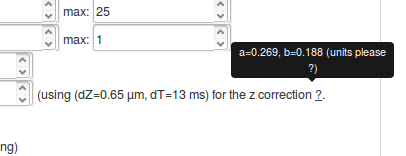
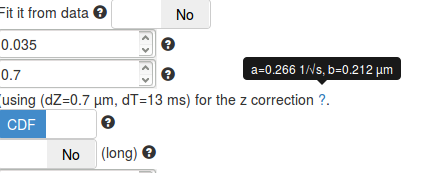
Updated documentation to versio 0.7
Fixes #128

Updated screenshots & co

Changed region(s): [[0.0, 0.0, 0.9754, 0.8205], [0.0, 0.8205, 0.3547, 1.0], [0.532, 0.0, 0.5616, 0.0513]]

diff --git a/SPTGUI/templates/SPTGUI/0.7/tutorial.html b/SPTGUI/templates/SPTGUI/0.7/tutorial.html
@@ -5,7 +5,7 @@
 <div class="bs-callout bs-callout-warning">
   <h4>Step 1: start an analysis with demonstration files</h4>
   <p> To access the demonstration files, go to the <a href="{% url 'SPTGUI:index' %}">Spot-On homepage</a> and scroll to the "Get Started section" (or alternatively click the <a href="{% url 'SPTGUI:index' %}#start" class="btn btn-default btn-sm">Start spotting!</a> button on the top menu. First fill in the "I'm not a robot" CAPTCHA. Then you have the option to either upload your own tracking files and start your analysis or start with demo files. We choose this later option for the purpose of this tutorial.</p>
-  <img src="{% static 'SPTGUI/img/tutorial/0.6/tuto1.png' %}"
+  <img src="{% static 'SPTGUI/img/tutorial/0.7/tuto1.png' %}"
      class="img-responsive center-block"
      style="max-width: 50%;"
      alt="Screenshot of the CAPTCHA region.">
@@ -46,24 +46,25 @@
 
 <p> The "Uploaded datasets" region (<span class="red">&#x2462;</span> in the screenshot below), that displays the uploaded datasets, together with their status (<code>uploading</code>, <code>queued</code>, <code>error</code>). The meaning of the upload codes is detailed in the <a href="#import-codes">Import codes</a> section below. When clicking on the "eye" symbol (<span class="glyphicon glyphicon-eye-open"></span>) next to an uploaded dataset will display some statistics in the area  <span class="red">&#x2463;</span>. The meaning and details of the computation of each statistic is detailed in section <a href="#dataset-statistics">Dataset statistics</a> below. Finally, area <span class="red">&#x2464;</span> displays similar statistics as area <span class="red">&#x2463;</span>, but for all the datasets pooled together.</p>
 
-<img src="{% static 'SPTGUI/img/tutorial/0.6/tuto2.png' %}"
+<img src="{% static 'SPTGUI/img/tutorial/0.7/tuto2.png' %}"
      class="img-responsive center-block"
      style="max-width: 70%;"
      alt="Screenshot of 'Data' tab.">
 
 <h3>Import</h3>
-<p>To proceed with the tutorial, several files have been loaded, they are named:</p>
+<p>To proceed with the tutorial, several files have been loaded, they are named. They might get imported in a different order:</p>
+
 <ol>
-  <li>20170223_mESC_C3_Halo-Sox2_25nM_PA-JF646_1ms-AOTF100-1100mW-633nm_1-405_13msCam_cell01_Tracked.mat</li>
-  <li>20170223_mESC_C3_Halo-Sox2_25nM_PA-JF646_1ms-AOTF100-1100mW-633nm_2-405_13msCam_cell02_Tracked.mat</li>
-  <li>20170223_mESC_C3_Halo-Sox2_25nM_PA-JF646_1ms-AOTF100-1100mW-633nm_1-405_13msCam_cell02_Tracked.mat </li>
-  <li>20170223_mESC_C3_Halo-Sox2_25nM_PA-JF646_1ms-AOTF100-1100mW-633nm_2-405_13msCam_cell03_Tracked.mat </li>
-  <li>20170223_mESC_C3_Halo-Sox2_25nM_PA-JF646_1ms-AOTF100-1100mW-633nm_3-405_13msCam_cell04_Tracked.mat </li>
-  <li>20170223_U2OS_H2b-Halo-SNAP_25nM_PA-JF646_1ms-AOTF100-1100mW-633nm_1-5-405_13msCam_cell01_Tracked.mat</li>
-  <li>20170223_U2OS_H2b-Halo-SNAP_25nM_PA-JF646_1ms-AOTF100-1100mW-633nm_1-7-405_13msCam_cell03_Tracked.mat</li>
-  <li>20170223_U2OS_H2b-Halo-SNAP_25nM_PA-JF646_1ms-AOTF100-1100mW-633nm_1-7-405_13msCam_cell02_Tracked.mat</li>
-  <li>20170307_U2OS_H2b-Halo-SNAP_25nM_PA-JF646_1ms-AOTF100-1100mW-633nm_1-5-405_13msCam_cell03_Tracked.mat</li>
-  <li>20170307_U2OS_H2b-Halo-SNAP_25nM_PA-JF646_1ms-AOTF100-1100mW-633nm_1-7-405_13msCam_cell05_Tracked.mat </li>  
+  <li>mESC_C3_Halo-Sox2_PA-JF646_1ms-633nm_74Hz_rep2_cell01.mat</li>
+  <li>mESC_C3_Halo-Sox2_PA-JF646_1ms-633nm_74Hz_rep2_cell02.mat</li>
+  <li>mESC_C3_Halo-Sox2_PA-JF646_1ms-633nm_74Hz_rep2_cell03.mat</li>
+  <li>mESC_C3_Halo-Sox2_PA-JF646_1ms-633nm_74Hz_rep2_cell04.mat</li>
+  <li>mESC_C3_Halo-Sox2_PA-JF646_1ms-633nm_74Hz_rep2_cell05.mat</li>
+  <li>U2OS_H2B-Halo-SNAP_PA-JF646_1ms-633nm_74Hz_rep2_cell01.mat</li>
+  <li>U2OS_H2B-Halo-SNAP_PA-JF646_1ms-633nm_74Hz_rep2_cell02.mat</li>
+  <li>U2OS_H2B-Halo-SNAP_PA-JF646_1ms-633nm_74Hz_rep2_cell03.mat</li>
+  <li>U2OS_H2B-Halo-SNAP_PA-JF646_1ms-633nm_74Hz_rep2_cell04.mat</li>
+  <li>U2OS_H2B-Halo-SNAP_PA-JF646_1ms-633nm_74Hz_rep2_cell05.mat</li>  
 </ol>
 
 <p> These files correspond to a subset of an experimental series spanning ~1500 cells in several conditions for various transcription factors and DNA-binding proteins, acquired at various framerates and durations of stroboscopic illumination. This dataset is described in more details in the <a href="#datasets">Datasets</a> section.
@@ -74,7 +75,7 @@
   <h4>Step 2: rename and tag the uploaded files</h4>
   <p> Since the naming convention of these files is a little bit cumbersome, let's first edit the description of each file to make it clearer. To do so, click on the "pencil" icon (<span class="glyphicon glyphicon-pencil"></span>, see <span class="red">&#x2465;</span>) next to each uploaded dataset. An "edit" box will appear at the bottom of the "Uploaded datasets" area, and we can now either rename or add a more explicit description of the datasets. We choose to leave the name as is, but add a short description for each dataset, such as "H2B cell1", "H2B cell2", etc. (<span class="red">&#x2466;</span>)</p>
 
-  <img src="{% static 'SPTGUI/img/tutorial/0.6/tuto3.png' %}"
+  <img src="{% static 'SPTGUI/img/tutorial/0.7/tuto3.png' %}"
        class="img-responsive center-block"
        style="max-width: 50%;"
        alt="Screenshot: Editing the description of datasets.">
@@ -90,7 +91,7 @@
   <p>Click on the "eye" button (<span class="glyphicon glyphicon-eye-open"></span>) next to the datasets and have a look at the metrics displayed. Make sure you familiarize yourself with those.</p>
 </div>
 
-<p> The table below summarizes the statistics computed for the first dataset (names <em>20170223_mESC_C3_Halo-Sox2_25nM_PA-JF646_1ms-AOTF100-1100mW-633nm_1-405_13msCam_cell01_Tracked.mat</em>.</p>
+<p> The table below summarizes the statistics computed for the first dataset (names <em>mESC_C3_Halo-Sox2_PA-JF646_1ms-633nm_74Hz_rep2_cell01.mat</em>.</p>
 
 <table class="table table-striped">
   <tr>
@@ -99,35 +100,38 @@
   </tr>
   <tr>
     <td>Number of traces</td>
-    <td>3764</td>
+    <td>6103</td>
   </tr>
   <tr>
     <td>Number of frames</td>
-    <td>30000</td>
+    <td>29997</td>
   </tr>
   <tr>
     <td>Number of detections</td>
-    <td>7625</td>
+    <td>15692</td>
   </tr>
   <tr>
-    <td>Number of traces with >=3 detections </td>
-    <td>783</td>
+    <td>Longest gap (frames)</td>
+    <td>1</td>
+  </tr>  <tr>
+    <td>Number of traces with &gt;3 detections </td>
+    <td>1813</td>
   </tr>
   <tr>
     <td>Number of jumps</td>
-    <td>3861</td>
+    <td>9589</td>
   </tr>
   <tr>
     <td>Length of trajectories (in number of frames)</td>
-    <td>median: 1, mean: 2.026</td>
+    <td>median: 1, mean: 2.571</td>
   </tr>
   <tr>
     <td>Particles per frame</td>
-    <td>median: 0, mean: 0.254</td>
+    <td>median: 0, mean: 0.523</td>
   </tr>
   <tr>
     <td>Jump length (µm) </td>
-    <td>median: 0.191, Mean: 0.306</td>
+    <td>median: 0.126, Mean: 0.236</td>
   </tr>
 </table>
 
@@ -162,7 +166,7 @@
   </tr>
 </table>
 
-<img src="{% static 'SPTGUI/img/tutorial/0.6/tuto4.png' %}"
+<img src="{% static 'SPTGUI/img/tutorial/0.7/tuto4.png' %}"
      class="img-responsive center-block"
      style="max-width: 60%;"
      alt="Screenshot: Overview of the kinetic modeling tab.">
@@ -174,7 +178,7 @@
 
   <p> First, in the "Dataset selection" select the five Sox2 replicates. This is done by switching the "Include" toggle button to "On" next to the Sox2 datasets. Make sure that none of the H2B datasets are included.</p>
 
-  <img src="{% static 'SPTGUI/img/tutorial/0.6/tuto5.png' %}"
+  <img src="{% static 'SPTGUI/img/tutorial/0.7/tuto5.png' %}"
      class="img-responsive center-block"
        style="max-width: 60%;"
        alt="Selection of Sox2 datasets.">
@@ -231,7 +235,7 @@
   </tr>
 </table>
 
-<img src="{% static 'SPTGUI/img/tutorial/0.6/tuto6.png' %}"
+<img src="{% static 'SPTGUI/img/tutorial/0.7/tuto6.png' %}"
      class="img-responsive center-block"
      style="max-width: 80%;"
      alt="Jump length distribution parameters.">
@@ -240,7 +244,7 @@
 
 <div class="alert alert-info"> This is the main view of Spot-On, so it is useful to spend a little bit of time to get familiarized with the various options.</div>
 
-<img src="{% static 'SPTGUI/img/tutorial/0.6/tuto7.png' %}"
+<img src="{% static 'SPTGUI/img/tutorial/0.7/tuto7.png' %}"
      class="img-responsive center-block"
      style="max-width: 80%;"
      alt="Jump length distribution plot.">
@@ -261,7 +265,7 @@
 <div class="bs-callout bs-callout-warning"> <h4>Step 6: compare the H2B and Sox2 jump length distributions</h4>
   <p> Before moving to the fitting, compare the pooled jump length distribution for Sox2 and H2B. To compute the H2B jump length distribution, simply uncheck the Sox2 datasets and select the H2B datasets in the "Dataset selection" area. Then click the <span class="btn btn-default btn-sm">Compute!</span> button in the "Jump length distribution parameters" box. The two histograms are displayed below. What can you tell from that? Does it match your knowledge of <a href="https://en.wikipedia.org/wiki/Histone_H2B">H2B</a> and <a href="https://en.wikipedia.org/wiki/SOX2">Sox2</a>?</p>
 
-  <img src="{% static 'SPTGUI/img/tutorial/0.6/tuto8.png' %}"
+  <img src="{% static 'SPTGUI/img/tutorial/0.7/tuto8.png' %}"
        class="img-responsive center-block"
        style="max-width: 95%;"
        alt="Comparison of the Sox2 and H2B jump length distributions.">
@@ -270,7 +274,7 @@
 <div class="bs-callout bs-callout-warning"> <h4>Step 7: mark one jump length distribution for download</h4>
   <p> Before moving to the fitting of the data, let's save this last plot. We will download it later (from the "Download" tab). To do so, click the <span class="btn btn-default btn-sm">Mark for download</span> button at the bottom of the page. This will prompt a small form where you can enter a name and a description that will be used as a reminder when you download the file. Also, display again the fit for Sox2 (by selecting the appropriate files and clicking the and <span class="btn btn-default btn-sm">Compute!</span> button in the "Jump length distribution parameters" box) and save Mark it for download too. We'd get back to these saved analyses later.</p>
 
-  <img src="{% static 'SPTGUI/img/tutorial/0.6/tuto9.png' %}"
+  <img src="{% static 'SPTGUI/img/tutorial/0.7/tuto9.png' %}"
      class="img-responsive center-block"
        style="max-width: 95%;"
        alt="Screenshot of the mark for download box.">
@@ -285,7 +289,7 @@
 <div class="bs-callout bs-callout-warning"> <h4>Step 8: fit a two-states model</h4>
   <p>Let's first try to fit a <em>two-states model</em>. Click on the picture of the two-states kinetic model (<em>Bound-Free</em>). Specific parameter for this model unfold. Let's take a minute to quickly review them (a more detailed description of each parameter is presented in Section <a href="#fit-parameters">Fitting parameters</a>, a short description is shown below).</p>
 
-  <img src="{% static 'SPTGUI/img/tutorial/0.6/tuto10.png' %}"
+  <img src="{% static 'SPTGUI/img/tutorial/0.7/tuto10.png' %}"
        class="img-responsive center-block"
        style="max-width: 60%;"
        alt="screenshot of the fitting parameters box.">
@@ -359,7 +363,7 @@
 <div class="alert alert-info">
   <p>When adjusting the dZ and dT parameters (in the jump length distribution and the fitting parameters box, respectively, you will notice that the mention next to the dZ changes. The displayed values correspond to the closest pair of parameter for which a corrected \(Z\) depth has been derived -- corresponding to an \(Z\) depth adjusted for the possibility of particles exiting and entering the detection volume again (see the <a href="#methods">Methods</a> section). The \(a\) and \(b\) parameters describe this corrected valued as a function of the estimated diffusion coefficient.</p>
 
-  <img src="{% static 'SPTGUI/img/tutorial/0.6/tuto11.png' %}"
+  <img src="{% static 'SPTGUI/img/tutorial/0.7/tuto11.png' %}"
        class="img-responsive center-block"
        style="max-width: 60%;"
        alt="screenshot of the z correction box.">
@@ -367,7 +371,7 @@
   <p> It is important to make sure that the set of displayed parameters is not too far from the real acquisition settings, else, the computed z correction might be wrong.</p>
 </div>
 
-<img src="{% static 'SPTGUI/img/tutorial/0.6/tuto12.png' %}"
+<img src="{% static 'SPTGUI/img/tutorial/0.7/tuto12.png' %}"
      class="img-responsive center-block"
      style="max-width: 95%;"
      alt="2-states fitting result of the H2B datasets.">
@@ -381,31 +385,31 @@
   </tr>
   <tr>
     <td>D<sub>bound</sub></td>
-    <td>0.024 µm²/s</td>      
+    <td>0.021 µm²/s</td>      
   </tr>
   <tr>
     <td>D<sub>free</sub></td>
-    <td>3.940 µm²/s</td>      
+    <td>3.929 µm²/s</td>      
   </tr>
   <tr>
     <td>F<sub>bound</sub></td>
-    <td>0.696</td>      
+    <td>0.733</td>      
   </tr>
   <tr>
     <td>l<sub>2</sub> error</td>
-    <td>0.00009184</td>      
+    <td>0.00009489</td>      
   </tr>
   <tr>
     <td>AIC</td>
-    <td>-195265</td>      
+    <td>-194578</td>      
   </tr>
   <tr>
     <td>BIC</td>
-    <td>-195241</td>      
+    <td>-194554</td>      
   </tr>
 </table>
 
-<p> A few comments arise. First, the estimated fraction bound is about 70 %, which is expected from a strongly DNA-associated protein such as H2B. The associated coefficient with the bound population is close to zero (0.024 µm²/s) whereas the diffusion coefficient for the free population (3.94 µm²/s) matches previous knowledge of the dynamics of the protein.</p>
+<p> A few comments arise. First, the estimated fraction bound is about 70 %, which is expected from a strongly DNA-associated protein such as H2B. The associated coefficient with the bound population is close to zero (0.021 µm²/s) whereas the diffusion coefficient for the free population (3.93 µm²/s) matches previous knowledge of the dynamics of the protein.</p>
 
 <p>Furthermore, the \(\ell_2\) error (the mean square error) is   \(\lt 10^{-4}\), which can be considered as acceptable, even though significant misfit appear at low and high \(\Delta t\).</p>
 									   
@@ -423,7 +427,7 @@
   <p> Finally, we can now see how the quality of the fit increases by running the fit again, but with a 3-states model. Select the 3-state model icon (Slow-Bound-Fast) on the "Model fitting" box. New parameters appear, very similarly as with the two-states model. We will leave the parameters to their default values, except for the CDF fit. Then click the <span class="btn btn-default btn-sm">Fit kinetic model</span> button and wait a until the fitting completes. Observe how the quality of fit evolves, and the parameters and estimated fractions.</p>
 </div>
 
-<img src="{% static 'SPTGUI/img/tutorial/0.6/tuto13.png' %}"
+<img src="{% static 'SPTGUI/img/tutorial/0.7/tuto13.png' %}"
      class="img-responsive center-block"
      style="max-width: 95%;"
      alt="Comparison of 2-states and 3-states fitting for Sox2 datasets.">
@@ -437,27 +441,27 @@
     </tr>
     <tr>
       <td>D<sub>bound</td>
-      <td>0.037 µm²/s</td>      
+      <td>0.030 µm²/s</td>      
     </tr>
     <tr>
       <td>D<sub>free</sub></td>
-      <td>2.747 µm²/s</td>      
+      <td>2.410 µm²/s</td>      
     </tr>
     <tr>
       <td>F<sub>bound</sub></td>
-      <td>0.337</td>      
+      <td>0.340</td>      
     </tr>
     <tr>
       <td>l<sub>2</sub> error</td>
-      <td>0.00043094</td>      
+      <td>0.00039589</td>      
     </tr>
     <tr>
       <td>AIC</td>
-      <td>-162789</td>      
+      <td>-164571</td>      
     </tr>
     <tr>
       <td>BIC</td>
-      <td>-162765</td>      
+      <td>-164547</td>      
     </tr>
   </table>
 </div>
@@ -471,35 +475,35 @@
     </tr>
     <tr>
       <td>D<sub>bound</td>
-      <td>0.014 µm²/s</td>      
+      <td>0.012 µm²/s</td>      
     </tr>
     <tr>
       <td>D<sub>slow</sub></td>
-      <td>0.643 µm²/s</td>      
+      <td>0.595 µm²/s</td>      
     </tr>
     <tr>
       <td>D<sub>fast</sub></td>
-      <td>4.938 µm²/s</td>      
+      <td>4.016 µm²/s</td>      
     </tr>
     <tr>
       <td>F<sub>bound</sub></td>
-      <td>0.244</td>      
+      <td>0.256</td>      
     </tr>
     <tr>
       <td>F<sub>slow</sub></td>
-      <td>0.273</td>      
+      <td>0.258</td>      
     </tr>
     <tr>
       <td>l<sub>2</sub> error</td>
-      <td>0.00008137</td>      
+      <td>0.00014930 </td>      
     </tr>
     <tr>
       <td>AIC</td>
-      <td>-197812</td>      
+      <td>-185061</td>      
     </tr>
     <tr>
       <td>BIC</td>
-      <td>-197772</td>      
+      <td>-185021</td>      
     </tr>
   </table>
 </div>
@@ -513,7 +517,7 @@
   <p>Finally move to the "Download" tab, where all the analyses we marked for download are stored. The view should look as below:</p>
 </div>
 
-<img src="{% static 'SPTGUI/img/tutorial/0.6/tuto14.png' %}"
+<img src="{% static 'SPTGUI/img/tutorial/0.7/tuto14.png' %}"
      class="img-responsive center-block"
      style="max-width: 95%;"
      alt="Overview of the download page.">

diff --git a/SPTGUI/templates/SPTGUI/0.7/documentation.html b/SPTGUI/templates/SPTGUI/0.7/documentation.html
@@ -118,15 +118,15 @@
 
 	<!-- Main docs =========================-->
         <div class="blog-post" id="problem">
-	  {% include 'SPTGUI/0.6/problem.html' %}
+	  {% include 'SPTGUI/0.7/problem.html' %}
 	</div>
 
 	<div class="blog-post" id="tutorial">
-	  {% include 'SPTGUI/0.6/tutorial.html' %}
+	  {% include 'SPTGUI/0.7/tutorial.html' %}
 	</div>
 	
         <div class="blog-post">
-	  {% include 'SPTGUI/0.6/reference.html' %}
+	  {% include 'SPTGUI/0.7/reference.html' %}
 	</div>
 
         <div class="blog-post">
@@ -137,11 +137,11 @@
 	</div>
 	
         <div id="methods" class="blog-post">
-	  {% include 'SPTGUI/0.6/methods.html' %}
+	  {% include 'SPTGUI/0.7/methods.html' %}
 	</div>
 	
 	<div id="code" class="blog-post">
-	  {% include 'SPTGUI/0.6/code.html' %}
+	  {% include 'SPTGUI/0.7/code.html' %}
 	</div>
 
 	<div id="datasets" class="blog-post">
@@ -149,7 +149,7 @@
 	</div>
 	
         <div class="blog-post">
-	  {% include 'SPTGUI/0.6/faq.html' %}
+	  {% include 'SPTGUI/0.7/faq.html' %}
 	</div>
 	
 
